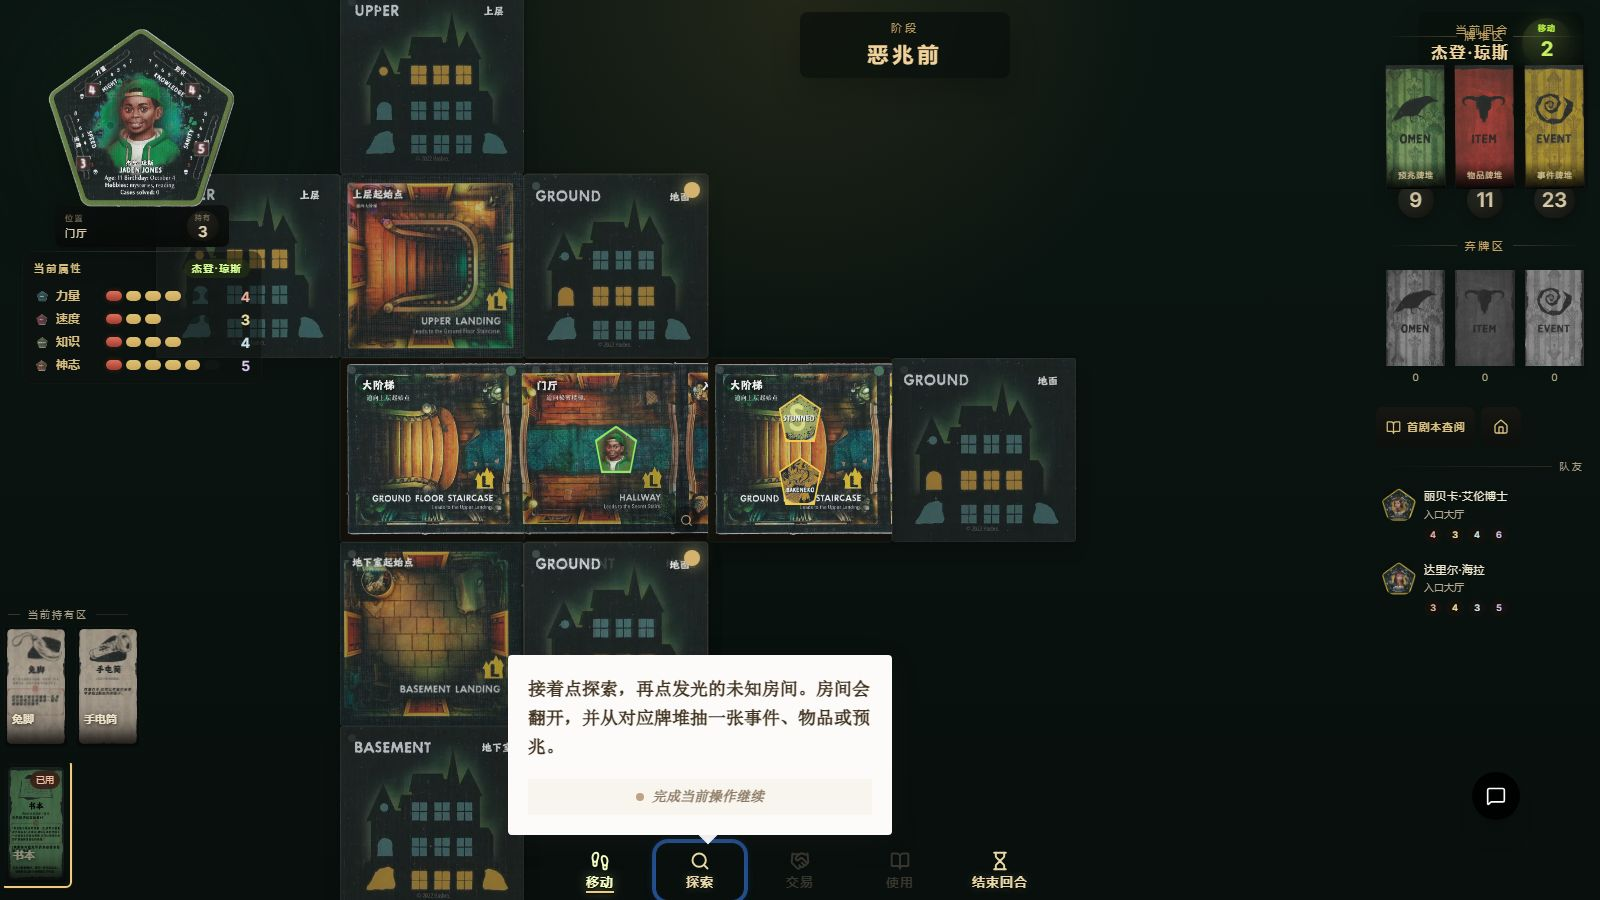
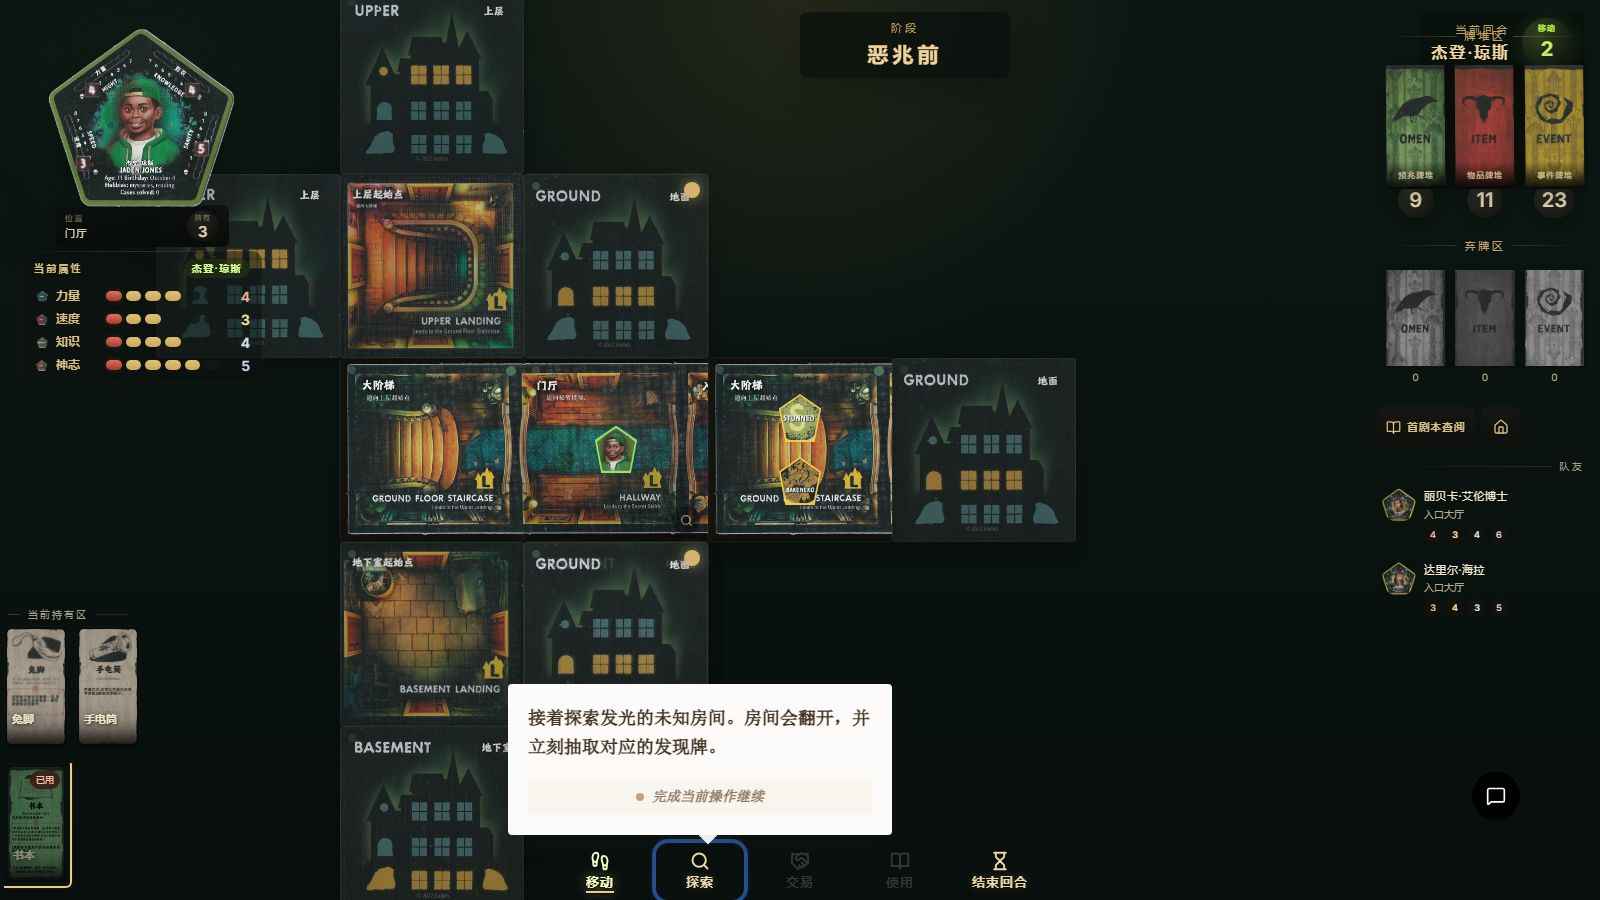
收口山屋改骰、骰面可读性与教程证据
- 山屋惊魂：更新教程文案和 E2E 断言，明确书本引导非战斗检定、探索后抽取发现牌
- 山屋惊魂：刷新兔脚改骰与教程复核截图，补章节总览证据图
- DiceThrone：补正式骰面预设材质标签画布，保留插件原生材质路径并减少骰面误读
- DiceThrone：保留停稳布局与材质更新补丁，避免自定义顶面强行覆盖导致朝向不一致

Changed region(s): [[0.3125, 0.7156, 0.5625, 0.84]]

diff --git a/e2e/betrayal/betrayal-tutorial.e2e.ts b/e2e/betrayal/betrayal-tutorial.e2e.ts
@@ -391,7 +391,9 @@ test.describe('山屋惊魂教程最小真实链路', () => {
         }
         await waitForStep(page, 'use-book');
         await expect(page.getByTestId('betrayal-action-use')).toBeVisible();
-        await expect(page.getByTestId('tutorial-overlay-card')).toContainText('书本');
+        await expect(page.getByTestId('tutorial-overlay-card')).toContainText('先使用书本');
+        await expect(page.getByTestId('tutorial-overlay-card')).toContainText('非战斗检定');
+        await expect(page.getByTestId('tutorial-overlay-card')).not.toContainText('放大镜');
         await expect(page.getByTestId('betrayal-inventory-omen-book')).toBeVisible();
         await expect(page.getByTestId('betrayal-inventory-omen-book-magnify')).toBeVisible();
         await expect(page.getByTestId('betrayal-inventory-preview-overlay')).not.toBeVisible();
@@ -412,7 +414,7 @@ test.describe('山屋惊魂教程最小真实链路', () => {
         await saveScreenshot(page, STEP_12);
         await waitForStep(page, 'explore-upper');
         await expect(page.getByTestId('betrayal-action-explore')).toBeVisible();
-        await expect(page.getByTestId('tutorial-overlay-card')).toContainText('房间会翻开');
+        await expect(page.getByTestId('tutorial-overlay-card')).toContainText('立刻抽取对应的发现牌');
         await page.getByTestId('betrayal-action-explore').click();
         const exploreTargetMarker = page.locator('[data-testid^="betrayal-room-explore-target-"]').first();
         await expect(exploreTargetMarker).toBeVisible({ timeout: 10000 });

diff --git a/src/games/dicethrone/ui/diceThroneDiceBoxSkins.ts b/src/games/dicethrone/ui/diceThroneDiceBoxSkins.ts
@@ -81,6 +81,21 @@ const drawDieFaceBase = (ctx: CanvasRenderingContext2D, size: number) => {
     ctx.stroke();
 };
 
+const createPresetLabelCanvas = (faceValue: number, atlasImage: HTMLImageElement | null) => {
+    const size = DICE_BOX_FACE_CANVAS_SIZE;
+    const canvas = document.createElement('canvas');
+    canvas.width = size;
+    canvas.height = size;
+    const ctx = canvas.getContext('2d');
+    if (!ctx) return canvas;
+
+    ctx.fillStyle = '#ffffff';
+    ctx.fillRect(0, 0, size, size);
+    drawOfficialAtlasFace(ctx, atlasImage, faceValue, size);
+
+    return canvas;
+};
+
 const loadImageFromCandidates = (urls: string[]): Promise<HTMLImageElement | null> => new Promise((resolve) => {
     const candidates = urls.filter(Boolean);
     let index = 0;
@@ -318,7 +333,7 @@ export async function loadDiceThroneDiceBoxSkin(
 
     for (const faceValue of DICE_BOX_ATLAS_FACE_VALUES) {
         faceCanvases[faceValue] = createFaceCanvas(faceValue, atlasImage);
-        faceImages[faceValue] = await canvasToImage(faceCanvases[faceValue]);
+        faceImages[faceValue] = await canvasToImage(createPresetLabelCanvas(faceValue, atlasImage));
     }
 
     return {

diff --git a/src/lib/dice-box-threejs/engine.ts b/src/lib/dice-box-threejs/engine.ts
@@ -541,6 +541,10 @@ export class DiceBoxThreeEngine {
     }
 
     private applySkinToDie(die: DiceBoxDie, skin: DiceBoxDieSkin): boolean {
+        if (skin.preferPresetMaterials) {
+            return false;
+        }
+
         let materials = Array.isArray(die.material) ? die.material : [die.material];
         let didChange = false;
 
